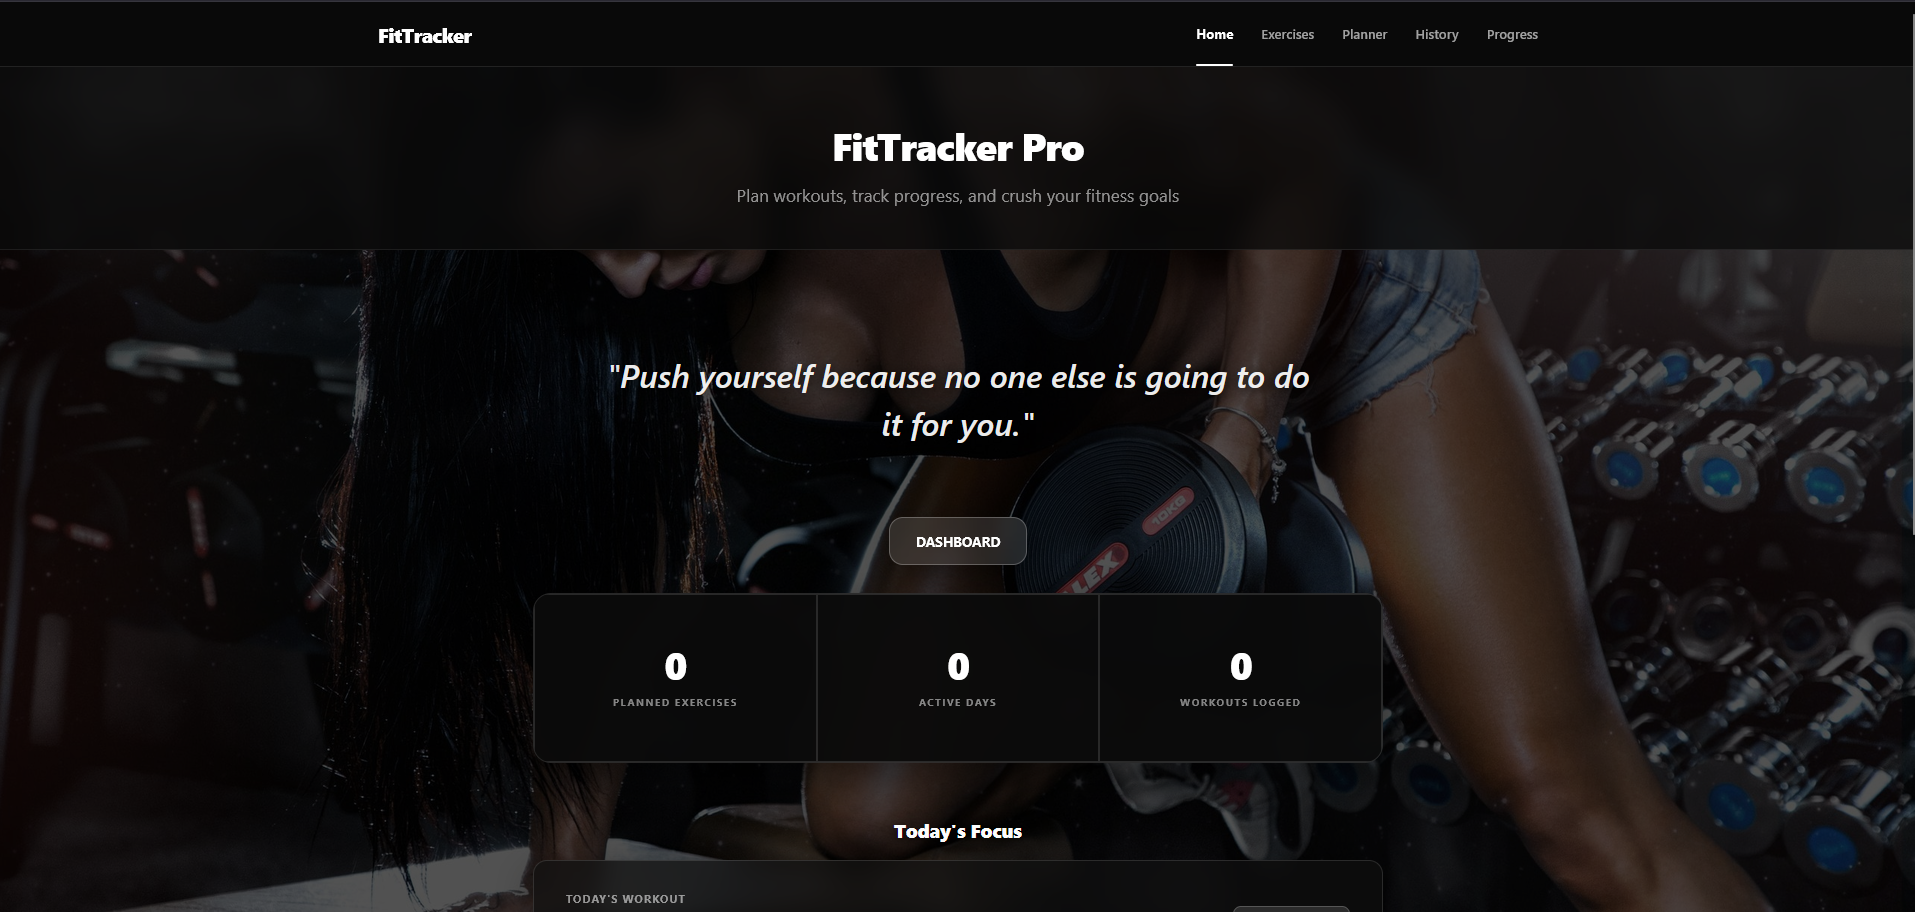
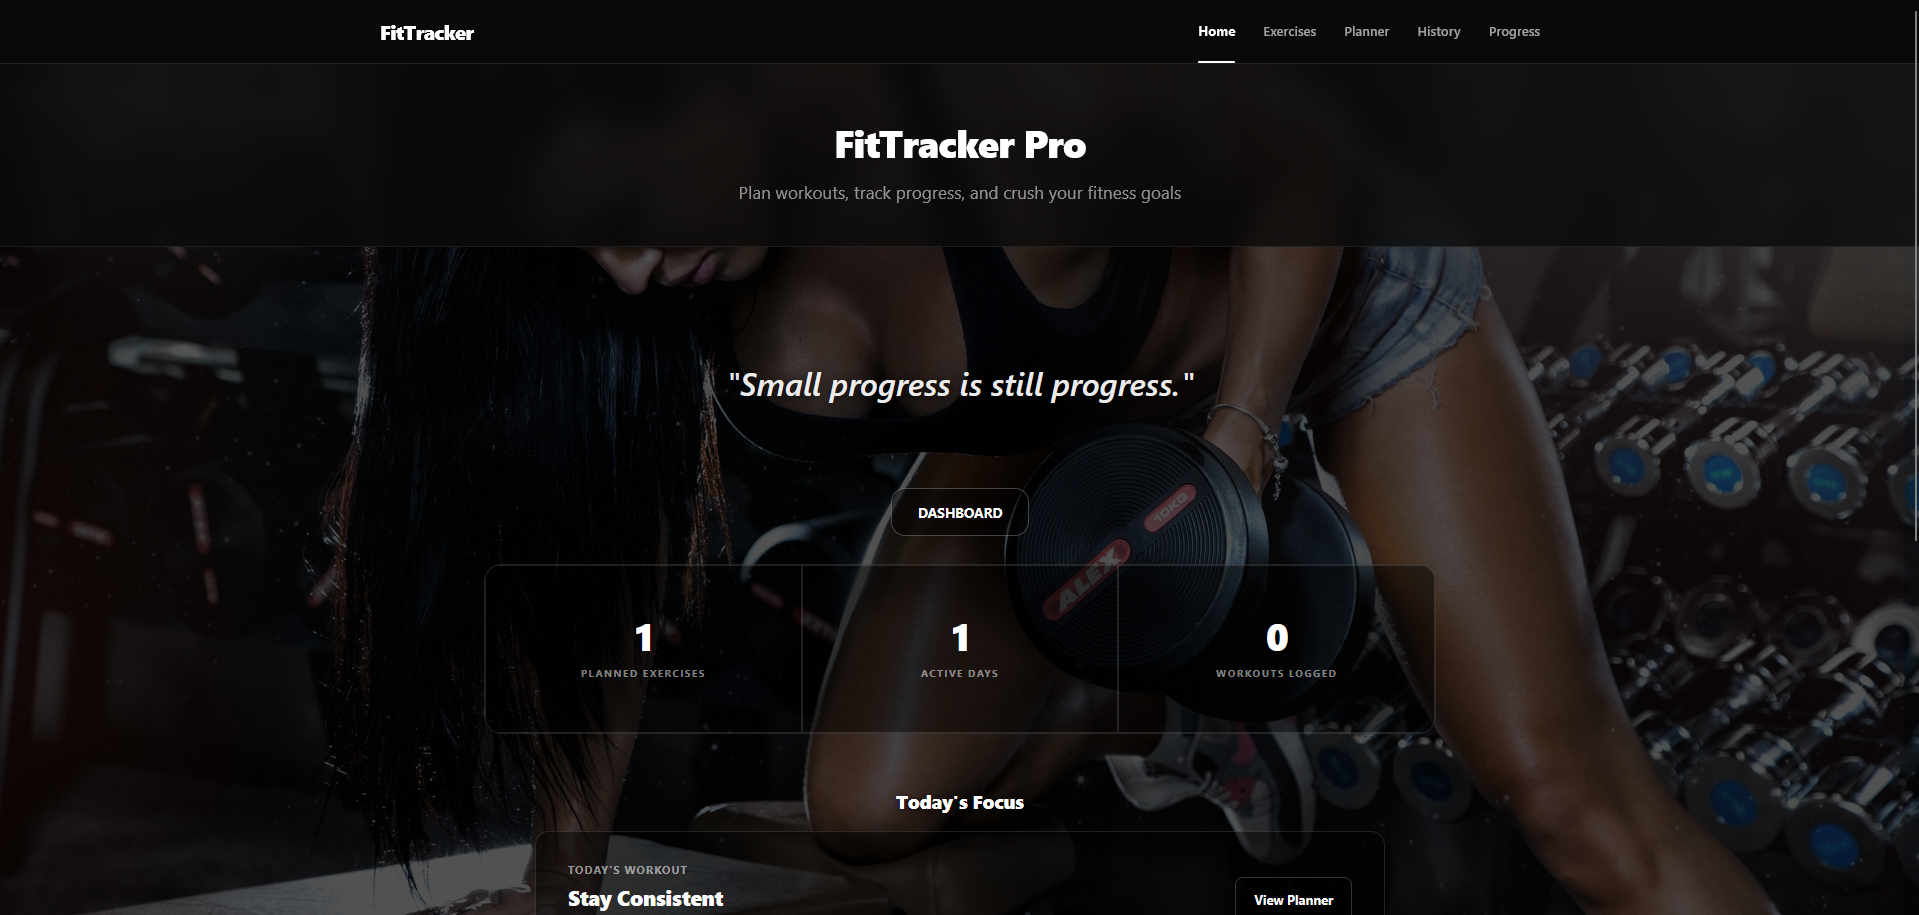
updating screenshots

diff --git a/fitness-tracker/src/components/Exercise/ExerciseDetail.jsx b/fitness-tracker/src/components/Exercise/ExerciseDetail.jsx
@@ -7,11 +7,32 @@ import { formatDuration } from "../utils/helpers";
 // Import the reusable VideoPlayer component
 import VideoPlayer from "../Media/VideoPlayer";
 
+const DAYS_OF_WEEK = [
+  "monday",
+  "tuesday",
+  "wednesday",
+  "thursday",
+  "friday",
+  "saturday",
+  "sunday",
+];
+
+
 const ExerciseDetail = ({ exercises, onAddToPlan }) => {
   const { id } = useParams();
   const navigate = useNavigate();
 
   const [isLoading, setIsLoading] = useState(true);
+  const [showDayPicker, setShowDayPicker] = useState(false);
+
+  
+  const handleAddToDay = (day) => {
+    onAddToPlan(day, exercise);
+    setShowDayPicker(false);
+    navigate("/workout-planner");
+  };
+
+
 
   useEffect(() => {
     const timer = setTimeout(() => {
@@ -94,6 +115,7 @@ const ExerciseDetail = ({ exercises, onAddToPlan }) => {
   };
 
   return (
+    <>
     <main className={styles.detailPage}>
 
       {/* Back navigation */}
@@ -251,7 +273,7 @@ const ExerciseDetail = ({ exercises, onAddToPlan }) => {
           {/* Add to plan */}
           <button
             className={styles.addButton}
-            onClick={() => onAddToPlan(exercise)}
+            onClick={() => setShowDayPicker(true)}
           >
             + Add to Workout Plan
           </button>
@@ -284,7 +306,46 @@ const ExerciseDetail = ({ exercises, onAddToPlan }) => {
       </div>
 
     </main>
-  );
+    
+    {showDayPicker && (
+      <div
+        className={styles.popupOverlay}
+        onClick={() => setShowDayPicker(false)}
+      >
+        <div
+          className={styles.dayPicker}
+          onClick={(e) => e.stopPropagation()}
+        >
+          <button
+            className={styles.closePopup}
+            onClick={() => setShowDayPicker(false)}
+          >
+            ✕
+          </button>
+
+          <h2>Add to Workout Plan</h2>
+
+          <p>
+            Choose a day for{" "}
+            <strong>{exercise.name}</strong>
+          </p>
+
+          <div className={styles.dayOptions}>
+            {DAYS_OF_WEEK.map((day) => (
+              <button
+                key={day}
+                className={styles.dayOption}
+                onClick={() => handleAddToDay(day)}
+              >
+                {day}
+              </button>
+            ))}
+          </div>
+        </div>
+      </div>
+    )}
+  </>
+);
 };
 
 export default ExerciseDetail;

diff --git a/fitness-tracker/src/App.jsx b/fitness-tracker/src/App.jsx
@@ -91,26 +91,27 @@ function App() {
   // Add Exercise To Plan
   // =========================
 
+
+
   const handleAddToPlan = useCallback((day, exercise) => {
-    setWorkoutPlan((prev) => {
-      const dayExercises = prev[day] || [];
+      setWorkoutPlan((prev) => {
+        const dayExercises = prev[day] || [];
 
-      // Don't add duplicate exercises
-      if (
-        dayExercises.some(
-          (existingExercise) =>
-            existingExercise.id === exercise.id
-        )
-      ) {
-        return prev;
-      }
+        if (
+          dayExercises.some(
+            (existingExercise) =>
+              existingExercise.id === exercise.id
+          )
+        ) {
+          return prev;
+        }
 
-      return {
-        ...prev,
-        [day]: [...dayExercises, exercise],
-      };
-    });
-  }, []);
+        return {
+          ...prev,
+          [day]: [...dayExercises, exercise],
+        };
+      });
+    }, []);
 
   // =========================
   // Remove Exercise From Plan
@@ -180,12 +181,11 @@ function App() {
             element={
               <ExerciseDetail
                 exercises={exercisesData}
-                onAddToPlan={(exercise) =>
-                  handleAddToPlan("monday", exercise)
-                }
+                onAddToPlan={handleAddToPlan}
               />
             }
           />
+      
 
           {/* Workout Planner */}
           <Route

diff --git a/fitness-tracker/src/components/Exercise/Exercise.module.css b/fitness-tracker/src/components/Exercise/Exercise.module.css
@@ -395,6 +395,12 @@
   background-attachment: fixed;
 }
 
+.detailPage > * {
+  max-width: 1000px;
+  margin-left: auto;
+  margin-right: auto;
+}
+
 .backButton {
   display: inline-flex;
   align-items: center;
